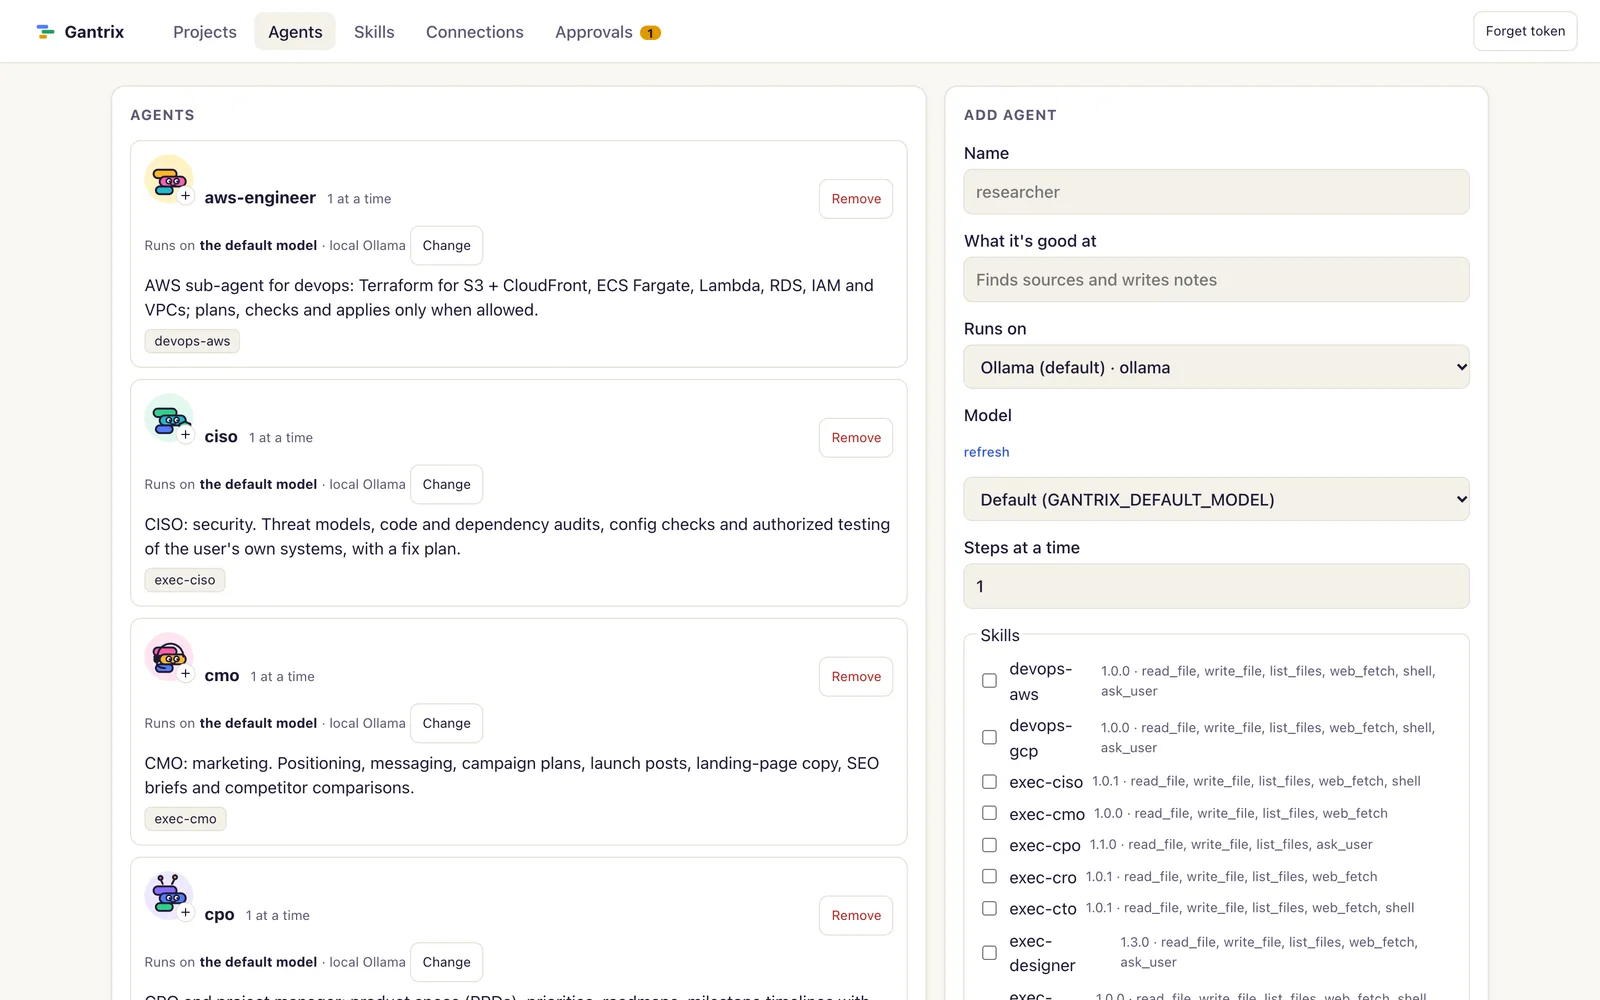
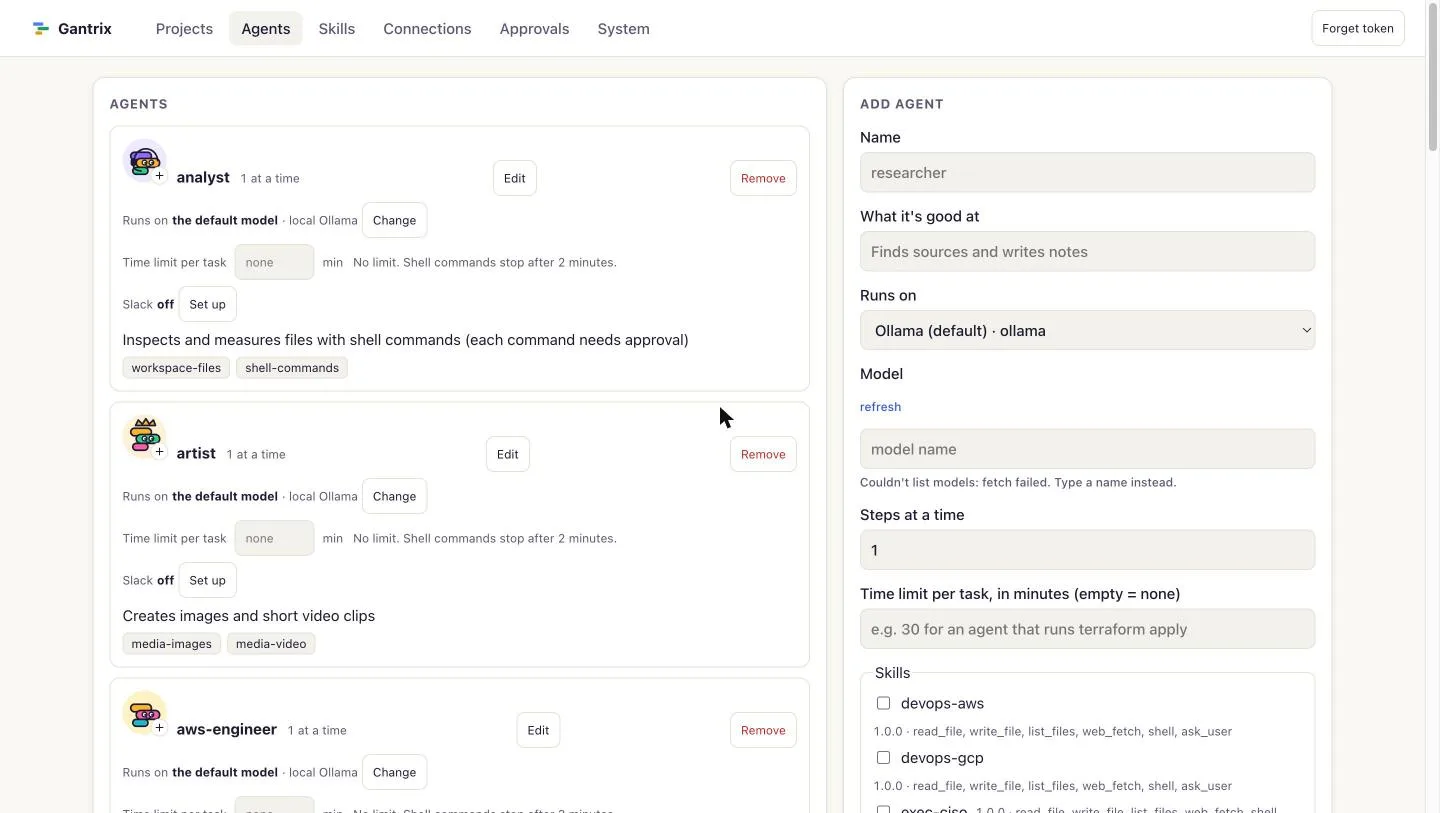
feat(ui): skip link, touch targets, tabular numerals; refresh Projects/Agents screenshots, add New Job
Make the deploy-until-done migration idempotent. Update README and site.

diff --git a/site/index.html b/site/index.html
@@ -126,7 +126,7 @@
       <p class="intro">The dashboard runs on your machine. These screenshots are from a demo with a made-up bakery.</p>
       <div class="shots">
         <figure class="shot">
-          <a href="assets/screenshots/projects.webp"><img src="assets/screenshots/projects.webp" alt="The Projects page: four project cards with progress bars, agent avatars and a Now line; one card is highlighted because an agent is waiting for the user" width="1600" height="1000" loading="lazy" decoding="async"></a>
+          <a href="assets/screenshots/projects.webp"><img src="assets/screenshots/projects.webp" alt="The Projects page with Projects, Jobs and Running agents tabs, New Project and New Job buttons, the built-in GitHub PR scan and project cards with progress bars and agent avatars" width="1440" height="813" loading="lazy" decoding="async"></a>
           <figcaption><b>Every project at a glance.</b> Progress, the agents on it, what each one is doing now, and which projects wait for you.</figcaption>
         </figure>
         <figure class="shot">
@@ -146,7 +146,8 @@
           <figcaption><b>Hand the work to Claude or ChatGPT.</b> One switch runs the team on the coding agents you already have on this machine, with your own login. The planner and judge stay on your default model.</figcaption>
         </figure>
         <figure class="shot">
-          <a href="assets/screenshots/agents.webp"><img src="assets/screenshots/agents.webp" alt="The Agents page: agent cards showing Runs on the default model with a Change button, and the Add agent form with Runs on and Model pickers" width="1600" height="1000" loading="lazy" decoding="async"></a>
+          <a href="assets/screenshots/new-job.webp"><img src="assets/screenshots/new-job.webp" alt="The New Job form: a name, description and goal, then ordered steps that each pick an agent, with a schedule" width="1440" height="813" loading="lazy" decoding="async"></a>
+          <a href="assets/screenshots/agents.webp"><img src="assets/screenshots/agents.webp" alt="The Agents page: agent cards with Runs on, a time limit and Slack chat set up per agent, and the Add agent form" width="1440" height="813" loading="lazy" decoding="async"></a>
           <figcaption><b>Each agent on its own model.</b> Local Ollama by default; switch any agent to Claude Code, OpenAI, Anthropic or your own server.</figcaption>
         </figure>
       </div>

diff --git a/apps/web/src/App.tsx b/apps/web/src/App.tsx
@@ -80,6 +80,26 @@ export function App() {
       : route.page;
   return (
     <>
+      <a
+        className="skip-link"
+        href="#main"
+        onClick={(e) => {
+          e.preventDefault();
+          document.getElementById('main')?.focus();
+        }}
+      >
+        Skip to content
+      </a>
+      <a
+        className="skip-link"
+        href="#main"
+        onClick={(e) => {
+          e.preventDefault();
+          document.getElementById('main')?.focus();
+        }}
+      >
+        Skip to content
+      </a>
       <nav className="top">
         <a href="#/projects" className="brand">
           <svg viewBox="0 0 16 16" width="18" height="18" aria-hidden="true">
@@ -106,7 +126,7 @@ export function App() {
           Forget token
         </button>
       </nav>
-      <main>
+      <main id="main" tabIndex={-1}>
         <ErrorBoundary resetKey={location.hash}>
           {route.page === 'projects' && <ProjectsPage />}
           {route.page === 'project' && <ProjectPage id={route.id} />}

diff --git a/apps/web/src/styles.css b/apps/web/src/styles.css
@@ -2401,3 +2401,38 @@ label.check {
 .project-deploy {
   margin: 0;
 }
+
+/* UX pass: skip link, touch targets, stable numerals, press feedback. */
+.skip-link {
+  position: absolute;
+  left: 16px;
+  top: -48px;
+  z-index: 1000;
+  padding: 10px 14px;
+  border-radius: 8px;
+  background: var(--primary);
+  color: var(--on-primary);
+  font-weight: 600;
+  transition: top 0.15s var(--ease);
+}
+.skip-link:focus {
+  top: 8px;
+}
+main:focus {
+  outline: none;
+}
+@media (pointer: coarse) {
+  button.small,
+  .tabs button,
+  .nav a {
+    min-height: 44px;
+  }
+}
+.muted,
+time,
+.progress-label {
+  font-variant-numeric: tabular-nums;
+}
+button:active:not(:disabled) {
+  opacity: 0.85;
+}

diff --git a/README.md b/README.md
@@ -21,10 +21,10 @@ It retries and replans until the goal is met or a budget runs out.
 
 ### See it
 
-<p align="center"><img src="site/assets/screenshots/projects.webp" alt="The Projects page: four project cards with progress bars, agent avatars and a Now line; one card is highlighted because an agent is waiting for the user" width="900"></p>
+<p align="center"><img src="site/assets/screenshots/projects.webp" alt="The Projects page with Projects, Jobs and Running agents tabs, New Project and New Job buttons and project cards with progress bars and agent avatars" width="900"></p>
 
 <details>
-<summary><b>More screenshots</b>: a project page, the task board with sub-agents, New project, offloading, Agents</summary>
+<summary><b>More screenshots</b>: a project page, the task board with sub-agents, New project, offloading, New Job, Agents</summary>
 
 **A project, its team and its questions.** Name, description and OKR goal, budgets you can extend, Stop and Cancel, and a question an agent asked you with options to pick.
 
@@ -42,13 +42,17 @@ It retries and replans until the goal is met or a budget runs out.
 
 <img src="site/assets/screenshots/offload.webp" alt="The Models section of the New project form: Run the work on set to ChatGPT, with cpo, designer and engineer each showing ChatGPT for this project, then a 3 hour time limit" width="800">
 
+<img src="site/assets/screenshots/new-job.webp" alt="The New Job form: a name, description and goal, then ordered steps that each pick an agent, with a schedule" width="800">
+
+**Save a repeatable job.** Ordered steps, each done by one agent, run on demand or on a cron schedule.
+
 **Each agent on its own model.** Local Ollama by default; switch any agent to Claude Code, OpenAI, Anthropic or your own server.
 
-<img src="site/assets/screenshots/agents.webp" alt="The Agents page: agent cards showing Runs on the default model with a Change button, and the Add agent form with Runs on and Model pickers" width="800">
+<img src="site/assets/screenshots/agents.webp" alt="The Agents page: agent cards with Runs on, a time limit and Slack chat set up per agent, and the Add agent form" width="800">
 
 </details>
 
-The screenshots come from a demo with a made-up bakery.
+Most screenshots come from a demo with a made-up bakery; Projects, New Job and Agents are from a local instance.
 
 **Site:** https://perdieminc.github.io/gantrix/ has an overview and the same getting-started steps.
 Compare: [Gantrix vs CrewAI](https://perdieminc.github.io/gantrix/vs/crewai/) ·
@@ -514,7 +518,8 @@ Example: a *Daily pull request scan* with steps `Fetch open PRs` (agent with the
 
 ## Talk to an agent in Slack
 
-An agent can answer people in Slack, using its own model and system prompt. It's off by
+Give an agent a Slack connection and it is a live teammate: always online, answering DMs and
+mentions as itself. It can answer people in Slack, using its own model and system prompt. It's off by
 default and **requires Slack bot credentials**:
 
 1. Create the Slack app from [`docs/slack-app-manifest.yml`](docs/slack-app-manifest.yml) (it
